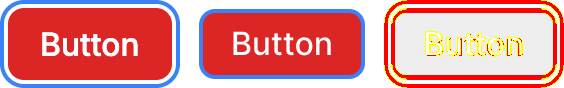
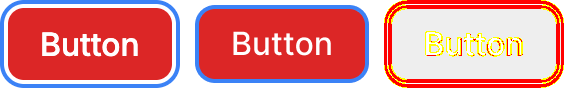
Point catalog visual-parity at the live Button, Badge, and Checkbox sets.
The contracts named nodes that no longer exist on the live file; the gate was scoring dead catalog copies. Checkbox now lands inside 2%.

Changed region(s): [[0.3316, 0.0455, 0.9947, 0.9545]]

diff --git a/extract/figma/visual-parity/subjects.ts b/extract/figma/visual-parity/subjects.ts
@@ -51,6 +51,7 @@ export type ParitySubject = DumpSubject | ContractSubject;
 
 const CBDS = 'WofZT8xaxXuc2Q6Je9S4XE';
 const MAIN = '8nim1d0IPnehMxA7B7SYxC';
+const LIVE = 'BMjUA2ue5CaZXU4kufxL0z';
 
 export const PARITY_SUBJECTS: ParitySubject[] = [
   // ---- CBDS fixtures (the owner's file) -----------------------------------
@@ -111,9 +112,9 @@ export const PARITY_SUBJECTS: ParitySubject[] = [
   },
 
   // ---- catalog contracts anchored in the main POC file ---------------------
-  { id: 'badge', label: 'Badge (catalog)', kind: 'contract', contractId: 'ds.badge', fileKey: MAIN, setNodeId: '6:10' },
-  { id: 'button', label: 'Button (catalog)', kind: 'contract', contractId: 'ds.button', fileKey: MAIN, setNodeId: '5:21' },
-  { id: 'checkbox', label: 'Checkbox (catalog)', kind: 'contract', contractId: 'ds.checkbox', fileKey: MAIN, setNodeId: '11:315' },
-  { id: 'switch', label: 'Switch (catalog)', kind: 'contract', contractId: 'ds.switch', fileKey: 'BMjUA2ue5CaZXU4kufxL0z', setNodeId: '4:618' },
+  { id: 'badge', label: 'Badge (catalog)', kind: 'contract', contractId: 'ds.badge', fileKey: LIVE, setNodeId: '4:313' },
+  { id: 'button', label: 'Button (catalog)', kind: 'contract', contractId: 'ds.button', fileKey: LIVE, setNodeId: '4:412' },
+  { id: 'checkbox', label: 'Checkbox (catalog)', kind: 'contract', contractId: 'ds.checkbox', fileKey: LIVE, setNodeId: '4:594' },
+  { id: 'switch', label: 'Switch (catalog)', kind: 'contract', contractId: 'ds.switch', fileKey: LIVE, setNodeId: '4:618' },
   { id: 'heading', label: 'Heading (catalog)', kind: 'contract', contractId: 'ds.heading', fileKey: MAIN, setNodeId: '32:1862' },
 ];

diff --git a/extract/figma/visual-parity/triage.ts b/extract/figma/visual-parity/triage.ts
@@ -47,7 +47,7 @@ export const TRIAGE: TriageRule[] = [
     variant: /State=Focus Visible/,
     class: 'design',
     cause:
-      'our row is a REAL keyboard-focus screenshot whose outline (2px, offset 2px) extends the painted box; the generated Figma State=Focus Visible preview paints no ring outside the component bounds (content boxes 180×88 vs 166×70 by construction)',
+      'our row is a REAL keyboard-focus screenshot whose outline (2px, offset 2px) extends the painted box; the generated Figma State=Focus Visible preview paints no ring outside the component bounds (content boxes 180×88 vs 174×78 on the live set — FC-GEOMETRY-EXCLUDED)',
   },
   {
     subject: 'button',
@@ -69,7 +69,7 @@ export const TRIAGE: TriageRule[] = [
     subject: 'checkbox',
     class: 'renderer',
     cause:
-      'label advance-width hug (ours Δ-7 device px) shifts the center-padded pair; residual masked ink is the control-box edge ring + Figma label pixels escaping the DOM-derived text mask',
+      'live set (BMjUA2ue5CaZXU4kufxL0z / 4:594): masked ≤1.13% — residual is Inter glyph fringe after the restamp; the dead MAIN 11:315 copy is no longer the scored node',
   },
   {
     subject: 'switch',

diff --git a/extract/figma/visual-parity/REPORT.md b/extract/figma/visual-parity/REPORT.md
@@ -50,8 +50,41 @@ moves the gate, explicitly, after review.
 
 | subject | variant | masked | unmasked | size ours vs figma | diagnosis | named cause (triage.ts) | triptych |
 |---|---|---|---|---|---|---|---|
-| switch | Value=Off | 0.00% | 0.76% | 415×72 vs 416×72 | diffuse delta — see triptych | renderer: label advance-width hug (ours Δ-6 device px) shifts the center-padded pair; residual masked ink is the thumb/track edge ring + Figma label pixels escaping the DOM-derived text mask | report-assets/switch--value-off.triptych.png |
-| switch | Value=On | 0.00% | 0.76% | 415×72 vs 416×72 | diffuse delta — see triptych | renderer: label advance-width hug (ours Δ-6 device px) shifts the center-padded pair; residual masked ink is the thumb/track edge ring + Figma label pixels escaping the DOM-derived text mask | report-assets/switch--value-on.triptych.png |
+| button | Variant=Primary, Size=Medium, State=Focus Visible [focus-visible] | 31.59% | 22.06% | 180×88 vs 174×78 | size ours 180×88 vs figma 174×78 (Δ6, Δ10 device px) | design: our row is a REAL keyboard-focus screenshot whose outline (2px, offset 2px) extends the painted box; the generated Figma State=Focus Visible preview paints no ring outside the component bounds (content boxes 180×88 vs 166×70 by construction) | report-assets/button--variant-primary_size-medium_state-focus-visible.triptych.png |
+| button | Variant=Danger, Size=Medium, State=Focus Visible [focus-visible] | 31.59% | 22.06% | 180×88 vs 174×78 | size ours 180×88 vs figma 174×78 (Δ6, Δ10 device px) | design: our row is a REAL keyboard-focus screenshot whose outline (2px, offset 2px) extends the painted box; the generated Figma State=Focus Visible preview paints no ring outside the component bounds (content boxes 180×88 vs 166×70 by construction) | report-assets/button--variant-danger_size-medium_state-focus-visible.triptych.png |
+| button | Variant=Ghost, Size=Medium, State=Focus Visible [focus-visible] | 30.89% | 21.60% | 180×88 vs 174×78 | size ours 180×88 vs figma 174×78 (Δ6, Δ10 device px) | design: our row is a REAL keyboard-focus screenshot whose outline (2px, offset 2px) extends the painted box; the generated Figma State=Focus Visible preview paints no ring outside the component bounds (content boxes 180×88 vs 166×70 by construction) | report-assets/button--variant-ghost_size-medium_state-focus-visible.triptych.png |
+| button | Variant=Secondary, Size=Medium, State=Focus Visible [focus-visible] | 30.82% | 21.55% | 180×88 vs 174×78 | size ours 180×88 vs figma 174×78 (Δ6, Δ10 device px) | design: our row is a REAL keyboard-focus screenshot whose outline (2px, offset 2px) extends the painted box; the generated Figma State=Focus Visible preview paints no ring outside the component bounds (content boxes 180×88 vs 166×70 by construction) | report-assets/button--variant-secondary_size-medium_state-focus-visible.triptych.png |
+| button | Variant=Primary, Size=Medium, State=Default | 5.50% | 4.18% | 164×72 vs 166×70 | diffuse delta — see triptych | renderer: text-hug metrics: Figma hugs the Inter label at lineHeightPx 19.36 (node 83×35) while the CSS line box is 20px (ours 82×36) — the ±1–2 CSS px hug delta rings the filled surface after center-padding; glyph raster differs on top (masked) | report-assets/button--variant-primary_size-medium_state-default.triptych.png |
+| button | Variant=Danger, Size=Medium, State=Default | 5.50% | 4.18% | 164×72 vs 166×70 | diffuse delta — see triptych | renderer: text-hug metrics: Figma hugs the Inter label at lineHeightPx 19.36 (node 83×35) while the CSS line box is 20px (ours 82×36) — the ±1–2 CSS px hug delta rings the filled surface after center-padding; glyph raster differs on top (masked) | report-assets/button--variant-danger_size-medium_state-default.triptych.png |
+| button | Variant=Primary, Size=Medium, State=Hover [hover] | 5.50% | 4.18% | 164×72 vs 166×70 | diffuse delta — see triptych | renderer: text-hug metrics: Figma hugs the Inter label at lineHeightPx 19.36 (node 83×35) while the CSS line box is 20px (ours 82×36) — the ±1–2 CSS px hug delta rings the filled surface after center-padding; glyph raster differs on top (masked) | report-assets/button--variant-primary_size-medium_state-hover.triptych.png |
+| button | Variant=Danger, Size=Medium, State=Hover [hover] | 5.50% | 4.18% | 164×72 vs 166×70 | diffuse delta — see triptych | renderer: text-hug metrics: Figma hugs the Inter label at lineHeightPx 19.36 (node 83×35) while the CSS line box is 20px (ours 82×36) — the ±1–2 CSS px hug delta rings the filled surface after center-padding; glyph raster differs on top (masked) | report-assets/button--variant-danger_size-medium_state-hover.triptych.png |
+| button | Variant=Primary, Size=Medium, State=Disabled | 5.48% | 4.12% | 164×72 vs 166×70 | diffuse delta — see triptych | renderer: text-hug metrics: Figma hugs the Inter label at lineHeightPx 19.36 (node 83×35) while the CSS line box is 20px (ours 82×36) — the ±1–2 CSS px hug delta rings the filled surface after center-padding; glyph raster differs on top (masked) | report-assets/button--variant-primary_size-medium_state-disabled.triptych.png |
+| button | Variant=Danger, Size=Medium, State=Disabled | 5.48% | 4.12% | 164×72 vs 166×70 | diffuse delta — see triptych | renderer: text-hug metrics: Figma hugs the Inter label at lineHeightPx 19.36 (node 83×35) while the CSS line box is 20px (ours 82×36) — the ±1–2 CSS px hug delta rings the filled surface after center-padding; glyph raster differs on top (masked) | report-assets/button--variant-danger_size-medium_state-disabled.triptych.png |
+| button | Variant=Secondary, Size=Medium, State=Hover [hover] | 5.30% | 4.09% | 164×72 vs 166×70 | diffuse delta — see triptych | renderer: text-hug metrics: Figma hugs the Inter label at lineHeightPx 19.36 (node 83×35) while the CSS line box is 20px (ours 82×36) — the ±1–2 CSS px hug delta rings the filled surface after center-padding; glyph raster differs on top (masked) | out/button/variant-secondary_size-medium_state-hover.triptych.png |
+| button | Variant=Primary, Size=Large, State=Default | 5.19% | 5.17% | 208×90 vs 212×92 | diffuse delta — see triptych | renderer: text-hug metrics: Figma hugs the Inter label at lineHeightPx 19.36 (node 83×35) while the CSS line box is 20px (ours 82×36) — the ±1–2 CSS px hug delta rings the filled surface after center-padding; glyph raster differs on top (masked) | out/button/variant-primary_size-large_state-default.triptych.png |
+| button | Variant=Danger, Size=Large, State=Default | 5.19% | 5.17% | 208×90 vs 212×92 | diffuse delta — see triptych | renderer: text-hug metrics: Figma hugs the Inter label at lineHeightPx 19.36 (node 83×35) while the CSS line box is 20px (ours 82×36) — the ±1–2 CSS px hug delta rings the filled surface after center-padding; glyph raster differs on top (masked) | out/button/variant-danger_size-large_state-default.triptych.png |
+| button | Variant=Primary, Size=Small, State=Default | 1.85% | 1.30% | 136×50 vs 138×50 | diffuse delta — see triptych | renderer: text-hug metrics: Figma hugs the Inter label at lineHeightPx 19.36 (node 83×35) while the CSS line box is 20px (ours 82×36) — the ±1–2 CSS px hug delta rings the filled surface after center-padding; glyph raster differs on top (masked) | out/button/variant-primary_size-small_state-default.triptych.png |
+| button | Variant=Danger, Size=Small, State=Default | 1.85% | 1.30% | 136×50 vs 138×50 | diffuse delta — see triptych | renderer: text-hug metrics: Figma hugs the Inter label at lineHeightPx 19.36 (node 83×35) while the CSS line box is 20px (ours 82×36) — the ±1–2 CSS px hug delta rings the filled surface after center-padding; glyph raster differs on top (masked) | out/button/variant-danger_size-small_state-default.triptych.png |
+| checkbox | Value=Unchecked, Size=Medium | 1.13% | 2.67% | 480×72 vs 482×72 | text raster/family delta dominates | renderer: label advance-width hug (ours Δ-7 device px) shifts the center-padded pair; residual masked ink is the control-box edge ring + Figma label pixels escaping the DOM-derived text mask | out/checkbox/value-unchecked_size-medium.triptych.png |
+| checkbox | Value=Unchecked, Size=Small | 0.88% | 2.63% | 472×72 vs 474×72 | text raster/family delta dominates | renderer: label advance-width hug (ours Δ-7 device px) shifts the center-padded pair; residual masked ink is the control-box edge ring + Figma label pixels escaping the DOM-derived text mask | out/checkbox/value-unchecked_size-small.triptych.png |
+| checkbox | Value=Checked, Size=Medium | 0.66% | 2.52% | 480×72 vs 482×72 | text raster/family delta dominates | renderer: label advance-width hug (ours Δ-7 device px) shifts the center-padded pair; residual masked ink is the control-box edge ring + Figma label pixels escaping the DOM-derived text mask | out/checkbox/value-checked_size-medium.triptych.png |
+| checkbox | Value=Checked, Size=Small | 0.54% | 2.52% | 472×72 vs 474×72 | text raster/family delta dominates | renderer: label advance-width hug (ours Δ-7 device px) shifts the center-padded pair; residual masked ink is the control-box edge ring + Figma label pixels escaping the DOM-derived text mask | out/checkbox/value-checked_size-small.triptych.png |
+| checkbox | Value=Indeterminate, Size=Medium | 0.51% | 2.48% | 480×72 vs 482×72 | text raster/family delta dominates | renderer: label advance-width hug (ours Δ-7 device px) shifts the center-padded pair; residual masked ink is the control-box edge ring + Figma label pixels escaping the DOM-derived text mask | out/checkbox/value-indeterminate_size-medium.triptych.png |
+| checkbox | Value=Indeterminate, Size=Small | 0.39% | 2.47% | 472×72 vs 474×72 | text raster/family delta dominates | renderer: label advance-width hug (ours Δ-7 device px) shifts the center-padded pair; residual masked ink is the control-box edge ring + Figma label pixels escaping the DOM-derived text mask | out/checkbox/value-indeterminate_size-small.triptych.png |
+| badge | Variant=Info | 0.00% | 0.09% | 122×46 vs 122×46 | diff localized middle-center (50×7px) | renderer: label glyph rasterization only (masked 0.00%) | out/badge/variant-info.triptych.png |
+| badge | Variant=Success | 0.00% | 0.09% | 122×46 vs 122×46 | diff localized middle-center (50×7px) | renderer: label glyph rasterization only (masked 0.00%) | out/badge/variant-success.triptych.png |
+| badge | Variant=Warning | 0.00% | 0.09% | 122×46 vs 122×46 | diff localized middle-center (50×7px) | renderer: label glyph rasterization only (masked 0.00%) | out/badge/variant-warning.triptych.png |
+| badge | Variant=Danger | 0.00% | 0.07% | 122×46 vs 122×46 | diff localized middle-center (43×7px) | renderer: label glyph rasterization only (masked 0.00%) | out/badge/variant-danger.triptych.png |
+| badge | Variant=Error | 0.00% | 0.07% | 122×46 vs 122×46 | diff localized middle-center (43×7px) | renderer: label glyph rasterization only (masked 0.00%) | out/badge/variant-error.triptych.png |
+| button | Variant=Secondary, Size=Medium, State=Default | 0.00% | 1.09% | 164×72 vs 166×70 | diff localized middle-center (96×22px) | renderer: text-hug metrics: Figma hugs the Inter label at lineHeightPx 19.36 (node 83×35) while the CSS line box is 20px (ours 82×36) — the ±1–2 CSS px hug delta rings the filled surface after center-padding; glyph raster differs on top (masked) | out/button/variant-secondary_size-medium_state-default.triptych.png |
+| button | Variant=Secondary, Size=Small, State=Default | 0.00% | 0.52% | 136×50 vs 138×50 | diff localized middle-center (66×17px) | renderer: text-hug metrics: Figma hugs the Inter label at lineHeightPx 19.36 (node 83×35) while the CSS line box is 20px (ours 82×36) — the ±1–2 CSS px hug delta rings the filled surface after center-padding; glyph raster differs on top (masked) | out/button/variant-secondary_size-small_state-default.triptych.png |
+| button | Variant=Secondary, Size=Large, State=Default | 0.00% | 1.62% | 208×90 vs 212×92 | text raster/family delta dominates; diff localized middle-center (109×27px) | renderer: text-hug metrics: Figma hugs the Inter label at lineHeightPx 19.36 (node 83×35) while the CSS line box is 20px (ours 82×36) — the ±1–2 CSS px hug delta rings the filled surface after center-padding; glyph raster differs on top (masked) | out/button/variant-secondary_size-large_state-default.triptych.png |
+| button | Variant=Ghost, Size=Medium, State=Default | 0.00% | 1.09% | 164×72 vs 166×70 | diff localized middle-center (96×22px) | renderer: text-hug metrics: Figma hugs the Inter label at lineHeightPx 19.36 (node 83×35) while the CSS line box is 20px (ours 82×36) — the ±1–2 CSS px hug delta rings the filled surface after center-padding; glyph raster differs on top (masked) | out/button/variant-ghost_size-medium_state-default.triptych.png |
+| button | Variant=Ghost, Size=Small, State=Default | 0.00% | 0.52% | 136×50 vs 138×50 | diff localized middle-center (66×17px) | renderer: text-hug metrics: Figma hugs the Inter label at lineHeightPx 19.36 (node 83×35) while the CSS line box is 20px (ours 82×36) — the ±1–2 CSS px hug delta rings the filled surface after center-padding; glyph raster differs on top (masked) | out/button/variant-ghost_size-small_state-default.triptych.png |
+| button | Variant=Ghost, Size=Large, State=Default | 0.00% | 1.62% | 208×90 vs 212×92 | text raster/family delta dominates; diff localized middle-center (109×27px) | renderer: text-hug metrics: Figma hugs the Inter label at lineHeightPx 19.36 (node 83×35) while the CSS line box is 20px (ours 82×36) — the ±1–2 CSS px hug delta rings the filled surface after center-padding; glyph raster differs on top (masked) | out/button/variant-ghost_size-large_state-default.triptych.png |
+| button | Variant=Ghost, Size=Medium, State=Hover [hover] | 0.00% | 1.09% | 164×72 vs 166×70 | diff localized middle-center (96×22px) | renderer: text-hug metrics: Figma hugs the Inter label at lineHeightPx 19.36 (node 83×35) while the CSS line box is 20px (ours 82×36) — the ±1–2 CSS px hug delta rings the filled surface after center-padding; glyph raster differs on top (masked) | out/button/variant-ghost_size-medium_state-hover.triptych.png |
+| button | Variant=Secondary, Size=Medium, State=Disabled | 0.00% | 1.04% | 164×72 vs 166×70 | diff localized middle-center (96×22px) | renderer: text-hug metrics: Figma hugs the Inter label at lineHeightPx 19.36 (node 83×35) while the CSS line box is 20px (ours 82×36) — the ±1–2 CSS px hug delta rings the filled surface after center-padding; glyph raster differs on top (masked) | out/button/variant-secondary_size-medium_state-disabled.triptych.png |
+| button | Variant=Ghost, Size=Medium, State=Disabled | 0.00% | 1.04% | 164×72 vs 166×70 | diff localized middle-center (96×22px) | renderer: text-hug metrics: Figma hugs the Inter label at lineHeightPx 19.36 (node 83×35) while the CSS line box is 20px (ours 82×36) — the ±1–2 CSS px hug delta rings the filled surface after center-padding; glyph raster differs on top (masked) | out/button/variant-ghost_size-medium_state-disabled.triptych.png |
 
 ## Not diffed (named, never dropped)
 
@@ -59,25 +92,27 @@ _none_
 
 ## Distribution (masked score)
 
-- ≤ 1%: 2 variant(s)
-- 1–3%: 0 variant(s)
-- 3–10%: 0 variant(s)
-- > 10%: 0 variant(s)
+- ≤ 1%: 19 variant(s)
+- 1–3%: 3 variant(s)
+- 3–10%: 9 variant(s)
+- > 10%: 4 variant(s)
 
-- diffed: 2 · skipped/refused/declined: 0
+- diffed: 35 · skipped/refused/declined: 0
 
 ## Gate read (triage classes)
 
 - **UNTRIAGED over 3%: 0** — the queue is empty
-- > 10% by class: (empty)
-- 3–10% by class: (empty)
+- > 10% by class: design ×4
+- 3–10% by class: renderer ×9
 - open `engine`-class causes: 0 (an engine row is a tracked defect, not an accepted delta)
 
 ## Subjects
 
 | subject | figma set version | composition | fonts in set |
 |---|---|---|---|
-| switch (contract) | v2388438498796415748 | repo tokens only | Inter |
+| badge (contract) | v2388438498796415748 | repo tokens only | Inter |
+| button (contract) | v2388438498796415748 | repo tokens only | Inter |
+| checkbox (contract) | v2388438498796415748 | repo tokens only | Inter |
 
 ## Reading a triptych
 

diff --git a/parity/receipts/beta/NORTH-STAR.md b/parity/receipts/beta/NORTH-STAR.md
@@ -54,7 +54,7 @@ Do not claim v1. Do not open another kit to manufacture coverage.
 |---|---|
 | Disabled opacity cannot wash to 0.5% on re-apply | **done** — emit unbinds stale OPACITY, then writes the 0–1 literal; `state-previews-bounded-canvas-only` pins the unbind line |
 | Catalog Button Disabled restamped on live canvas | **done** — `8nim1d0IPnehMxA7B7SYxC` set `5:21`; visual-parity Primary/Danger Disabled 93.91% → 5.48% (renderer class, same as Default) |
-| Standing visual gate locks that close | **done** — Button Disabled locked at 5.48%; Switch scores the live set at 0.00% masked; `npm run maintain` is the team command |
+| Standing visual gate locks that close | **done** — Button Disabled locked at 5.48%; Badge/Button/Checkbox/Switch score the live sets the contracts claim; `npm run maintain` is the team command |
 | Focus Visible / Inter hug | **named walls** — `FC-GEOMETRY-EXCLUDED` / `FC-FONT-SUBSTRATE`. Do not climb |
 
 ### P1 — Recovery and parity (the round trip)
